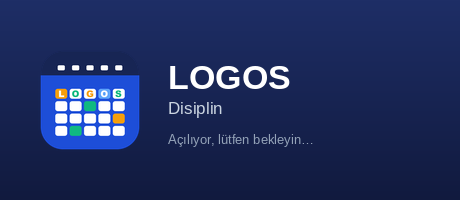
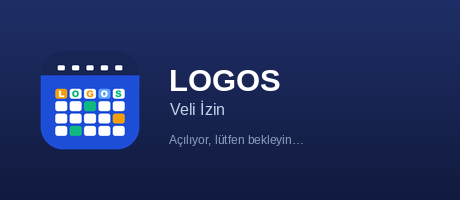
1.0.0: kendi açılış görseli, fareyle üstüne gelince kutucuklar öne çıkar
Ertan 03.11.2026 21:11 (0.1.1'i PC'sinde inceledi): açılış görselinde "LOGOS Disiplin" yazıyordu; paket/acilis_uret.py aynı düzende
"Veli İzin" görselini üretir. Fareyle üstüne gelince düğme, çip, takvim günü, sayı kutusu, arama sonucu ve menü hafifçe büyüyüp maviye
döner; yazı kartları büyümez, kenarı mavileşir. Sürüm 1.0.0.

Claude-Session: https://claude.ai/code/session_01GKNnv3jmWebAboA2gX93EZ

Changed region(s): [[0.3652, 0.33, 0.6391, 0.48], [0.3652, 0.66, 0.6696, 0.75], [0.3652, 0.51, 0.487, 0.6]]

diff --git a/uygulama/arayuz.html b/uygulama/arayuz.html
@@ -199,6 +199,30 @@
   @keyframes toast-omur { 0% { opacity:0; transform:translateY(8px) } 6%, 85% { opacity:1; transform:none } 100% { opacity:0 } } .toast { animation:toast-omur 4s forwards }
   .hk-satir { display:flex; gap:10px; align-items:center; padding:8px 0; border-top:1px solid #eef1f5; font-size:13.5px } .hk-satir:first-child { border-top:0 } .hk-satir .k { width:150px; color:var(--mute); flex:none }
   .yil-sec { display:inline-flex; align-items:center; gap:8px; font-size:13px; color:var(--ink2) } .yil-sec select { width:auto; padding:4px 8px; font-size:13px }
+  /* Fareyle üstüne gelince kutucuk hafifçe öne çıkar ve maviye döner (Ertan 03.11.2026: "biraz daha mavi ve belirgin, öne doğru boyutlansın").
+     Tıklanan küçük kutular büyür; içinde yazı yazılan büyük kartlar büyümez (yazarken kıpırdamasın), yalnız kenarı ve gölgesi mavileşir. */
+  .btn, .cip, .gun, .sayi, .snc, .kart, aside button, .tk-nav, .hk-dugme, .ogr-kart, table.liste tbody td {
+    transition:transform .16s cubic-bezier(.2,.8,.2,1), box-shadow .16s ease, background-color .16s ease, border-color .16s ease, color .16s ease }
+  @media (hover: hover) {
+    .btn:hover:not(:disabled) { transform:translateY(-1px) scale(1.04); background:#eaf1ff; border-color:#93b4f5; color:#1d4ed8; box-shadow:0 6px 16px -6px rgba(37,99,235,.45) }
+    .btn.p:hover:not(:disabled) { background:#1d4ed8; border-color:#1d4ed8; color:#fff; box-shadow:0 8px 20px -6px rgba(37,99,235,.65) }
+    .btn.d:hover:not(:disabled) { background:#fef2f2; border-color:#fca5a5; color:var(--err); box-shadow:0 6px 16px -6px rgba(185,28,28,.35) }
+    .btn.bag:hover:not(:disabled) { transform:none; background:none; box-shadow:none }
+    .cip:hover:not(:disabled) { transform:translateY(-1px) scale(1.06); background:#dbe7ff; border-color:var(--brand); color:#1d4ed8; box-shadow:0 6px 14px -6px rgba(37,99,235,.5) }
+    .cip.on:hover:not(:disabled) { background:#1d4ed8; color:#fff }
+    button.gun:hover { transform:scale(1.12); z-index:2; background:#dbe7ff; color:#1d4ed8; box-shadow:0 0 0 2px var(--brand) inset, 0 8px 18px -6px rgba(37,99,235,.55) }
+    button.gun.sec:not(.once):not(.sonra):hover { background:#1d4ed8; color:#fff }
+    .tk-nav:hover { transform:scale(1.12); background:#dbe7ff; color:var(--brand) }
+    .sayi:hover { transform:translateY(-3px) scale(1.02); background:#f6f9ff; border-color:#bfd3fb; box-shadow:0 14px 30px -12px rgba(37,99,235,.45) }
+    .snc:hover { transform:scale(1.015); background:#dbe7ff }
+    .kart:hover { border-color:#bfd3fb; box-shadow:0 2px 4px rgba(15,23,42,.04), 0 14px 32px -14px rgba(37,99,235,.38) }
+    section[data-sayfa=istatistik] .kart:hover { transform:translateY(-3px) }
+    .ogr-kart:hover { border-color:#a9c3f7; box-shadow:0 10px 24px -12px rgba(37,99,235,.45) }
+    aside button:not(.on):hover { transform:translateX(3px); background:rgba(37,99,235,.3); color:#fff }
+    aside .hk-dugme:hover { transform:translateX(2px) }
+    table.liste.tikla tbody tr:hover td { background:#e6efff }
+  }
+  @media (prefers-reduced-motion: reduce) { .btn, .cip, .gun, .sayi, .snc, .kart, aside button, .tk-nav, .hk-dugme { transition:none !important; transform:none !important } }
   @media (max-width:1100px) { .dk-duzen { grid-template-columns:1fr } .izgara3 { grid-template-columns:1fr } .izgara2 { grid-template-columns:1fr } .sayilar { grid-template-columns:repeat(2, minmax(0, 1fr)) } }
 </style>
 </head>

diff --git a/paket/acilis_uret.py b/paket/acilis_uret.py
@@ -1,0 +1,36 @@
+"""Açılış görselini (paket/acilis.png, 460x200) üretir: Windows'ta tek dosyalı paket açılırken birkaç saniye görünen pencere (PyInstaller Splash).
+LOGOS Disiplin'inkiyle aynı düzen; yalnız uygulamanın adı değişir (03.11.2026: kopyada "Disiplin" yazıyordu, Ertan fark etti).
+Kullanım: python paket/acilis_uret.py   (pakete girmez; derlemeden önce bir kez)
+"""
+import os, sys
+from PIL import Image, ImageDraw, ImageFont
+
+KOK = os.path.dirname(os.path.dirname(os.path.abspath(__file__)))
+sys.path.insert(0, KOK)
+from uygulama import surum
+
+W, H = 460, 200
+UST, ALT = (30, 46, 102), (17, 26, 62)                 # LOGOS'un lacivert geçişi
+FONT = os.path.join(KOK, 'uygulama', 'fontlar')
+
+
+def uret(yol=os.path.join(KOK, 'paket', 'acilis.png'), alt_ad=None):
+    alt_ad = alt_ad or surum.AD.replace('LOGOS', '').strip()            # 'Veli İzin'
+    im = Image.new('RGB', (W, H))
+    d = ImageDraw.Draw(im)
+    for y in range(H):
+        t = y / (H - 1); d.line([(0, y), (W, y)], fill=tuple(round(a + (b - a) * t) for a, b in zip(UST, ALT)))
+    s = Image.open(os.path.join(KOK, 'paket', 'simge.png')).convert('RGBA').resize((112, 112), Image.LANCZOS)
+    im.paste(s, (34, (H - 112) // 2), s)
+    kalin = ImageFont.truetype(os.path.join(FONT, 'LiberationSans-Bold.ttf'), 31)
+    duz = ImageFont.truetype(os.path.join(FONT, 'LiberationSans-Regular.ttf'), 16)
+    kucuk = ImageFont.truetype(os.path.join(FONT, 'LiberationSans-Regular.ttf'), 12)
+    d.text((169, 62), 'LOGOS', font=kalin, fill=(255, 255, 255))
+    d.text((170, 100), alt_ad, font=duz, fill=(199, 210, 234))
+    d.text((169, 133), 'Açılıyor, lütfen bekleyin…', font=kucuk, fill=(143, 157, 194))
+    im.save(yol, optimize=True)
+    return yol
+
+
+if __name__ == '__main__':
+    print(uret())

diff --git a/raporlar/DENEYLER.md b/raporlar/DENEYLER.md
@@ -17,6 +17,10 @@ Tarih, komut, süre, sonuç, öğrenilen. Gerçek veriyle yapılanlar yalnız sa
 - Sonuç: `eokul.oku` üçünü de 'genel', kimlik listesini 'kimlik' tanıdı; bütün alanlar beklenenle aynı; boş bırakılan fotoğraf None.
 - Öğrenilen: gerçek düzeni taklit için çerçeve dikdörtgeni şart (`_bloklar` önce dikdörtgenlere bakıyor).
 
+## D6 - 03.11.2026 - Bir kez çıkan sınama başarısızlığı
+- Birim sınamaları 1.0.0 değişikliklerinden hemen sonra bir kez "FAILED (failures=1)" verdi (çıktı kaydedilmemişti); ardından 9 koşuda hep geçti.
+- Hangisi olduğu bilinmiyor. Aday: `kasa_sina.test_sure` (açma süresi < 5 sn, yük altında). Bir daha çıkarsa çıktı `/tmp/birim_*.txt`'ye alınır.
+
 ## D5 - 03.11.2026 - İlk Windows derlemesi (GitHub, windows-latest)
 - Sonuç: derleme ve paketin duman sınaması (pencere dahil) geçti: `LOGOS-Veli-Izin.exe` 27,8 MB, kurulum 29,4 MB (ikisi de sohbete
   gönderilebilir, sınır 30 MiB). "Kurulum paketini sına" adımı düştü; Actions günlüğü buluttan okunamıyor, yalnız "exit code 1".

diff --git a/raporlar/OTURUM_RAPORU_2026-11-03.md b/raporlar/OTURUM_RAPORU_2026-11-03.md
@@ -63,3 +63,9 @@ gizli): üç commit buluttan push edildi (Mac'teki commit'ler git paketiyle taş
 - İlk Windows derlemesi kur / aç / kaldır adımında düştü (D5); düzeltildi. İkinci derleme (4790208) bütün adımlardan geçti, **v0.1.1** bu
   depoda yayınlandı: `LOGOS-Veli-Izin-kurulum.exe` 29,4 MB (sha256 a1bd9d20…), `LOGOS-Veli-Izin-windows.exe` 27,8 MB. Kurulum dosyası
   Ertan'a sohbetten gönderildi; yanındaki PC'de (i5-5200, 8 GB) deneyecek. Yazıcıya doğrudan gönderme ilk kez orada denenecek.
+
+## Ek (21:08-21:11) - Ertan'ın PC denemesi ve 1.0.0
+- Ertan: "güzel görünüyor, PC'de inceledim". Gördüğü: açılış görselinde "LOGOS Disiplin" yazıyor (düzeltildi, `paket/acilis_uret.py`).
+  İsteği: fareyle üstüne gelince kutucuklar daha mavi ve öne doğru büyüsün (eklendi; yazı kartları büyümez, yalnız mavileşir).
+- Sürüm 1.0.0, `yayin` dalıyla. Ertan yayından sonra başka bir şey isteyecek.
+- Sorulan, cevap bekleyen: yazıcıya doğrudan gitti mi, gerçek e-Okul PDF'leri doğru geldi mi, eski PC'de açılış süresi.

diff --git a/raporlar/SURUM_1_0.md b/raporlar/SURUM_1_0.md
@@ -18,6 +18,10 @@ Kapsam Ertan'ın (03.11.2026), sıra Claude'un; gerekçeler "Sıra" bölümünde
 - `paket/` ve GitHub derlemesi (Disiplin'in kalıbı); Linux'ta deneme derlemesi duman sınamasından geçti (D4). Windows paketi `yayin` dalıyla.
 - Windows: v0.1.1 yayınlandı (GitHub Releases; ikinci derlemede bütün sınamalar geçti, D5). Ertan'ın PC'sinde deneme sırada.
 
+## 1.0.0 (03.11.2026, Ertan 21:11: "sürümü 1.0.0 yaparak yayınlayalım")
+- Ertan 0.1.1'i yanındaki PC'de inceledi ("güzel görünüyor"). İki düzeltme: açılış görselinde "LOGOS Disiplin" yazıyordu (yeni görsel,
+  `acilis_uret.py`); fareyle üstüne gelince kutucuklar öne çıkıp maviye döner. Sürüm 1.0.0; aşağıdaki sıra 1.x'e kalır.
+
 ## Sıra
 1. **Okulda deneme (Ertan)**: gerçek PDF'lerle aktarma, bir günün dilekçeleri, yazıcıya doğrudan gönderme (Windows'ta `startfile(... 'print')`
    okulun PDF okuyucusuna bağlı; olmazsa "önce PDF açılsın" ayarı). Bulguları `raporlar/DENEYLER.md`'ye.

diff --git a/paket/SURUM_NOTU.md b/paket/SURUM_NOTU.md
@@ -1,3 +1,10 @@
+## LOGOS Veli İzin 1.0.0 (03.11.2026)
+
+- Fareyle üstüne gelince düğmeler, takvim günleri, çipler ve sayı kutuları hafifçe öne çıkıp maviye döner.
+- Açılış görseli LOGOS Veli İzin'in kendi görseli oldu.
+- İlk deneme sürümündeki (0.1.1) her şey: tek tıkla veli izin dilekçesi, devamsızlık durumu, öğrenci belgesi, e-Okul'dan öğrenciler,
+  okul logosu, kayıtlar, istatistik, şifreli kasa.
+
 ## LOGOS Veli İzin 0.1.1 (03.11.2026) - ilk deneme sürümü
 
 - Veli izin dilekçesi tek tıkla: öğrenciyi arayın, veli kendiliğinden gelir (kayıtlı veli, anne, baba ya da "Diğer"), takvimden günleri
